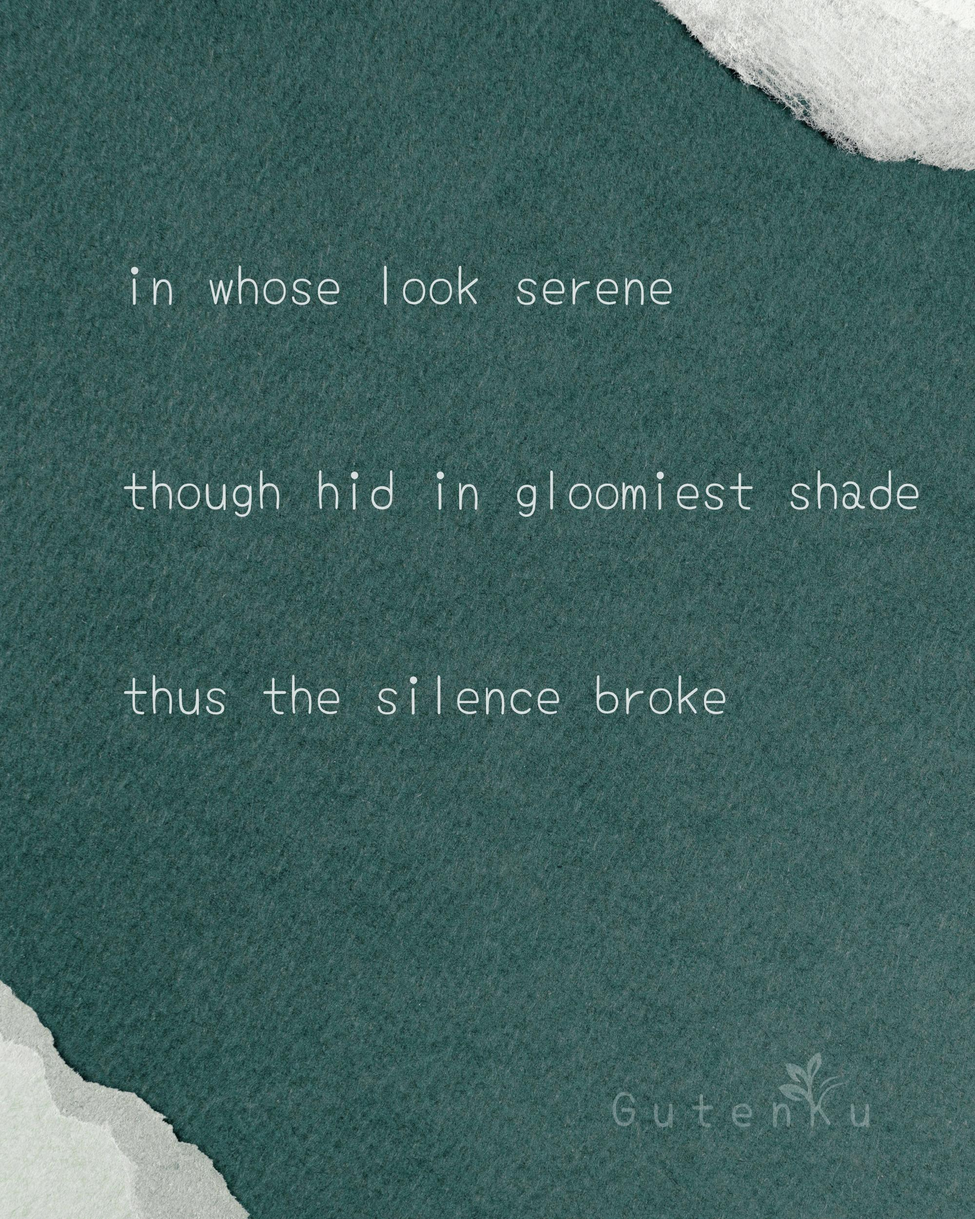
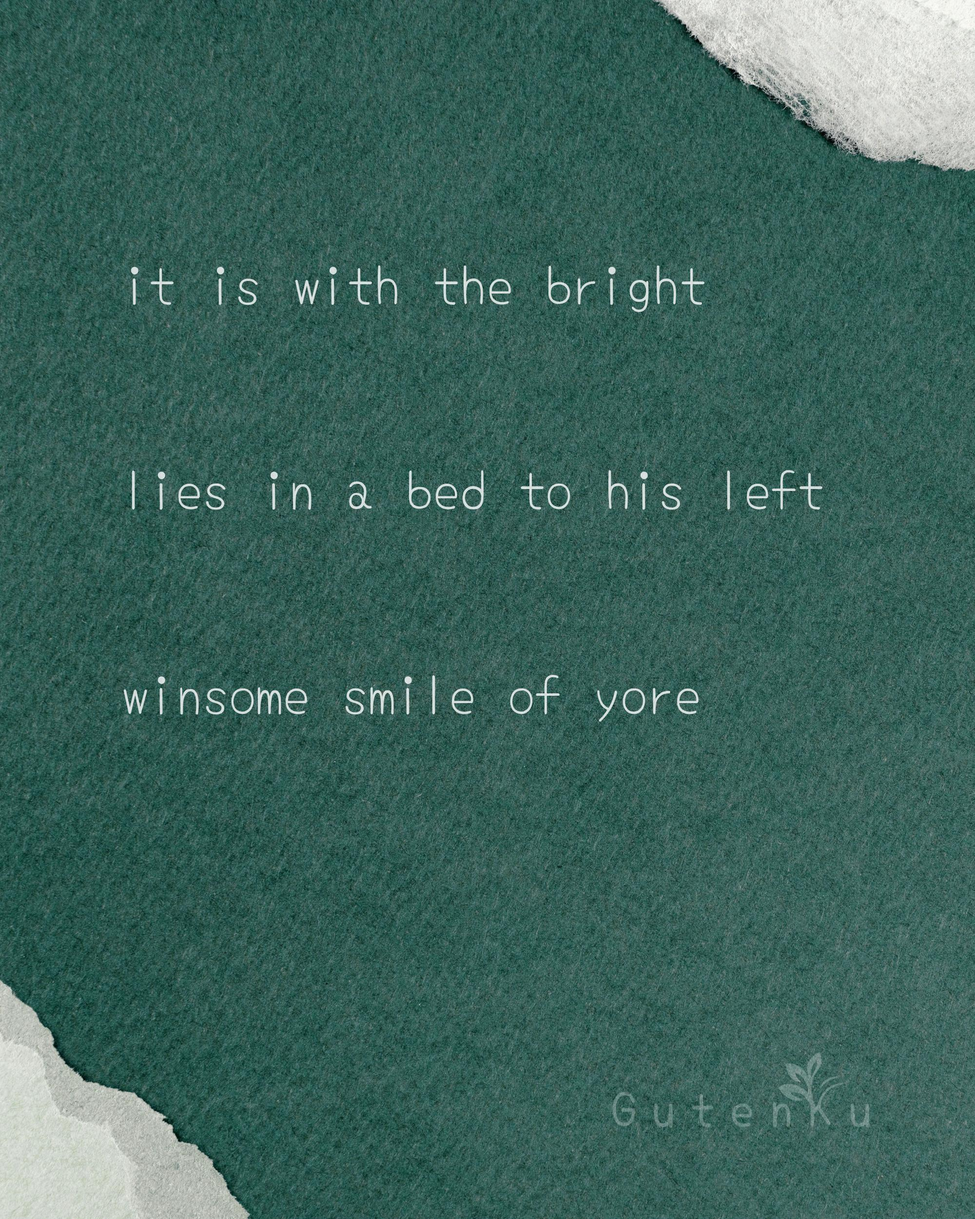
docs(readme): updated daily haiku card

diff --git a/README.md b/README.md
@@ -25,13 +25,13 @@
 <table>
 <tr>
 <td width="300" valign="top">
-<img src="/assets/img/daily_haiku_card.jpg?t=1792836034" width="280" alt="Daily Haiku Card">
+<img src="/assets/img/daily_haiku_card.jpg?t=1792922448" width="280" alt="Daily Haiku Card">
 </td>
 <td valign="top">
 
-> _"This haiku suggests the quiet power of a serene presence hidden in darkness. The phrase "in whose look serene" evokes a calm, gentle gaze, while "though hid in gloomiest shade" creates a contrast between inner peace and outer gloom. The final line, "thus the silence broke," implies that this calm presence has the ability to interrupt stillness, perhaps bringing comfort, hope, or emotional release. Overall, the poem captures the beauty of serenity shining through darkness and the moment when silence is transformed by subtle but meaningful presence."_
+> _"This haiku evokes a quiet, reflective moment filled with memory and tenderness. The phrase "bright" suggests light, warmth, or hope, while "lies in a bed to his left" creates a still, intimate scene that may hint at illness, rest, or even death. The final line, "winsome smile of yore," brings in nostalgia, recalling a charming smile from the past. Together, the poem feels gentle yet bittersweet, as if the speaker is looking at someone dear and remembering a happier time. Its emotional power comes from the contrast between present stillness and the lingering beauty of memory."_
 
-— **BotenKu** 📅 _Oct 24, 2026_
+— **BotenKu** 📅 _Oct 25, 2026_
 
 </td>
 </tr>
